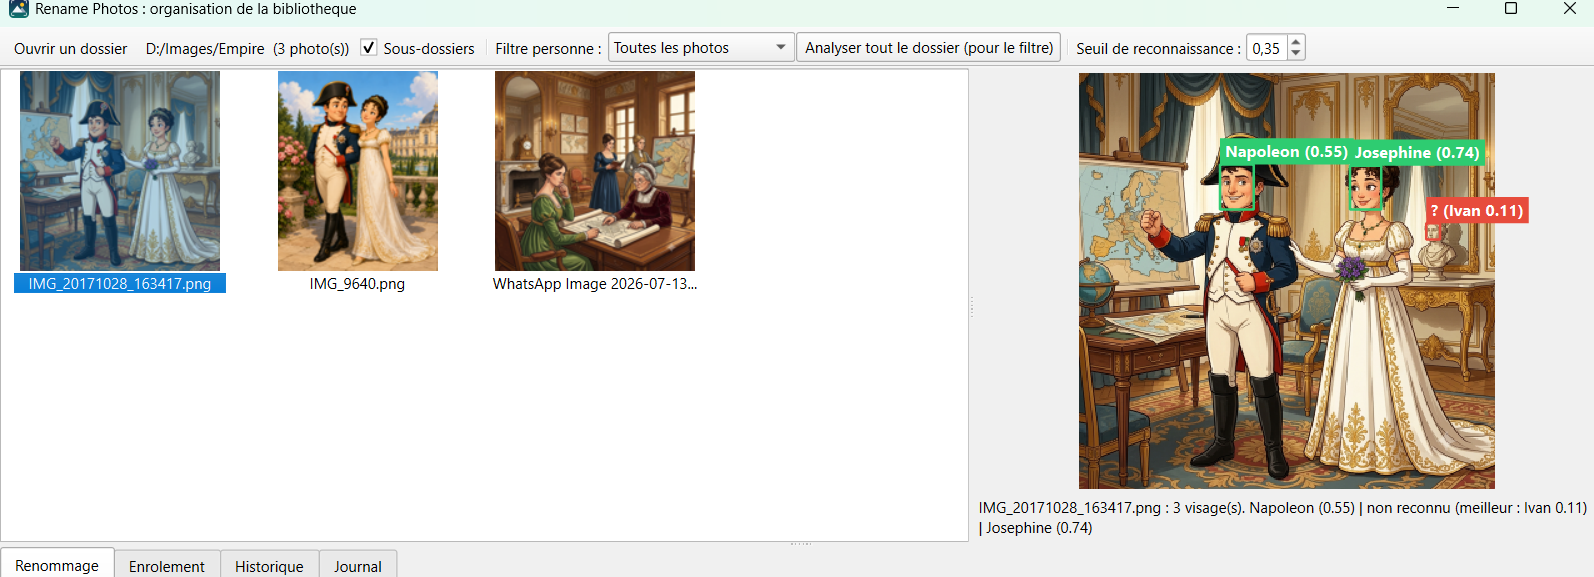
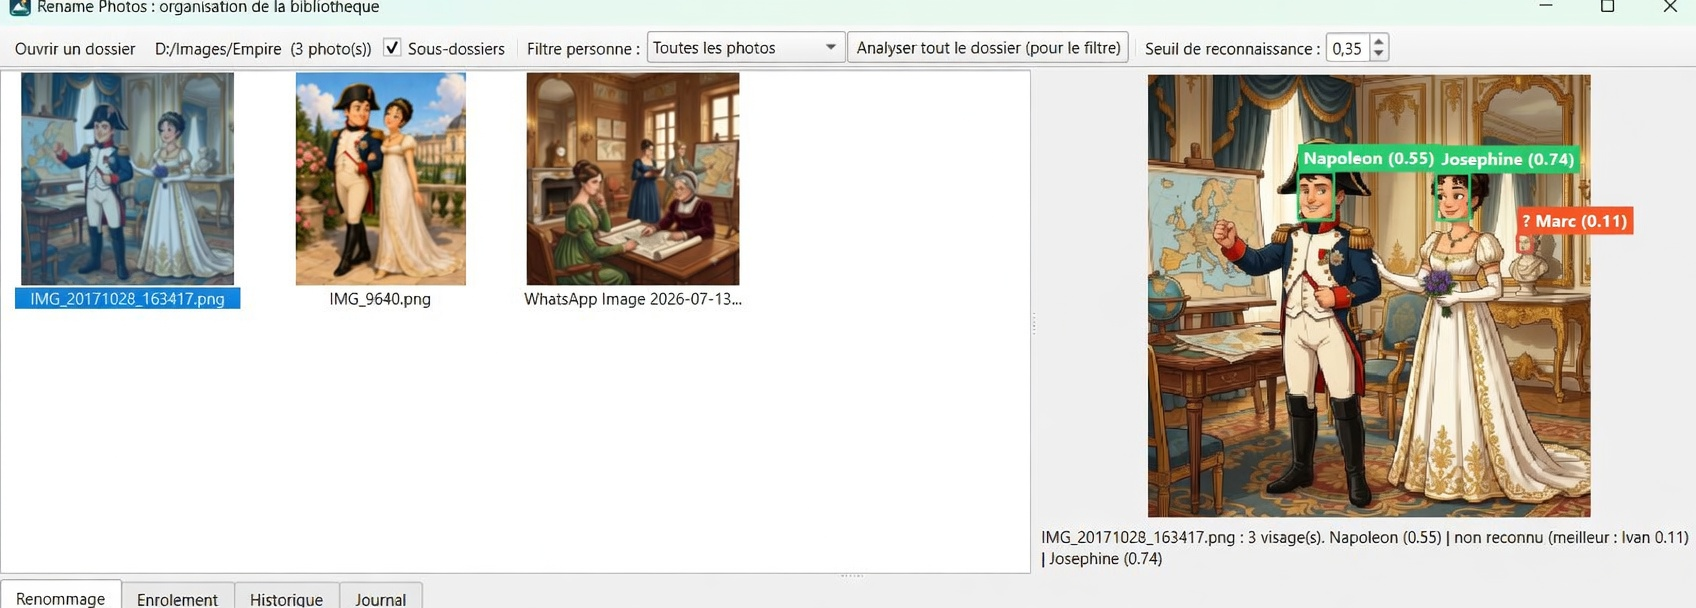
Move screenshots in READMEs

diff --git a/README.md b/README.md
@@ -1,19 +1,15 @@
 # Local AI Photo Renamer
 
-Rename your photo library intelligently, 100% locally: `IMG_1234.jpg` becomes `20230703_143551_alice_beach.jpg`, thanks to a local vision model ([Ollama](https://ollama.com)) that describes the scene and on-device face recognition (insightface) that identifies the people you have taught it. No photo ever leaves your computer.
+Rename your photo library intelligently, 100% locally: `IMG_1234.jpg` becomes `20171028_163417_josephine_napoleon_royal_chamber.jpg`, thanks to a local vision model ([Ollama](https://ollama.com)) that describes the scene and on-device face recognition (insightface) that identifies the people you have taught it. No photo ever leaves your computer.
 
-> **Note**: the GUI is currently French-only. Its labels (buttons, tabs) are quoted verbatim in this manual, with translations. Command-line scripts are included.
+> **Note**: the GUI is currently French-only. Its labels (buttons, tabs) are quoted verbatim in this manual, with translations. Command-line scripts are included. The screenshots illustrate an example with two enrolled people, Napoleon and Josephine.
 
 *Documentation française complète : [README.fr.md](README.fr.md).*
-
-![Renaming tab: thumbnail grid and editable rename proposals](docs/Renaming_panel.png)
-
-![Viewer: face recognition with per-face scores](docs/Face_recognition_panel.png)
 
 ## Features
 
 - **Smart renaming** to `YYYYMMDD_HHMMSS_description.ext`. Generic camera names (`IMG_1234`, `IMG-[phone redacted]-WA0072`, `PXL_...`, screenshots...) get an AI-generated description; explicit names are kept and just timestamped. Timestamps come from EXIF, then from a date embedded in the filename (WhatsApp/Android formats), then from the file's modification time.
-- **Face recognition** (optional): enroll a few reference photos per person; recognized names are injected into the new filenames (`alice_beach` instead of `child_beach`) and power a per-person photo filter.
+- **Face recognition** (optional): enroll a few reference photos per person; recognized names are injected into the new filenames (`josephine_napoleon_garden` instead of `couple_garden`) and power a per-person photo filter.
 - **Preview before renaming**: every proposal is shown in an editable table; nothing is renamed without your confirmation, and every batch can be undone from the History tab.
 - **Fully local and private**: Ollama for scene description, insightface for faces, JSON files on disk. Reference photos, face embeddings, caches and history stay on your machine (and are git-ignored).
 - Thumbnail grid with lazy loading, face viewer with adjustable recognition threshold, per-person filter, subfolder mode, live activity log. CLI scripts (`rename_photos.py`, `enroll_faces.py`) cover renaming and enrollment without the GUI.
@@ -78,11 +74,13 @@ The "Sous-dossiers" checkbox recursively includes photos from subfolders (rename
 
 Click a thumbnail: the photo is displayed on the right, and face detection starts automatically (the first use loads the model, allow a few seconds; progress is shown in the log).
 
+![Viewer: face recognition with per-face scores](docs/Face_recognition_panel.png)
+
 Each detected face gets a box:
 
-Green box: recognized face. The label shows the name and similarity score, e.g. "Alice (0.52)".
+Green box: recognized face. The label shows the name and similarity score, e.g. "Josephine (0.74)".
 
-Red box: face not recognized at the current threshold. The label shows the best candidate and its score, e.g. "? (Bob 0.28)". Useful for spotting false negatives.
+Red box: face not recognized at the current threshold. The label shows the best candidate and its score, e.g. "? (Marc 0.11)" on the statue in the background of the screenshot. Useful for spotting false negatives.
 
 The recognition threshold (toolbar, 0.35 by default) applies live: boxes switch from red to green without re-running detection. Lower it if known faces are missed, raise it if strangers get identified. Detections are cached (`face_cache.json`): revisiting an analyzed photo is instant, and changing the threshold or enrolling someone does not redo detection.
 
@@ -98,9 +96,11 @@ Not to be confused with "Analyser le dossier (apercu)" in the "Renommage" tab: t
 
 Principle: nothing is ever renamed without your confirmation. The flow is Analyze, then review and adjust, then Apply.
 
+![Renaming tab: thumbnail grid and editable rename proposals](docs/Renaming_panel.png)
+
 Produced name format: `YYYYMMDD_HHMMSS_description.ext`. The timestamp comes from EXIF, else from a date embedded in the filename (WhatsApp, Android formats...), and as a last resort from the file's modification time. The description depends on the original name:
 
-Generic name (IMG_1234, IMG-20230703-WA0072, screenshots...): description generated by the vision model. If face recognition is checked and recognizes someone, their name replaces the generic terms and the model only describes the scene (e.g. `alice_beach` rather than `child_beach`).
+Generic name (IMG_1234, IMG-20230703-WA0072, screenshots...): description generated by the vision model. If face recognition is checked and recognizes someone, their name replaces the generic terms and the model only describes the scene (e.g. `josephine_napoleon_garden` rather than `couple_garden`, as in the screenshot above).
 
 Already explicit name: timestamp only, no model call.
 
@@ -149,8 +149,8 @@ local-ai-photo-renamer/
 │
 │   Created automatically at runtime (git-ignored):
 ├── Reference/
-│   ├── Alice/                 # reference photos for Alice
-│   └── Bob/
+│   ├── Josephine/             # reference photos for Josephine
+│   └── Napoleon/
 ├── faces_db.json              # enrolled face embeddings
 ├── face_cache.json            # detection cache
 └── rename_history.json        # rename batch history

diff --git a/README.fr.md b/README.fr.md
@@ -1,14 +1,10 @@
 # Local AI Photo Renamer : manuel d'utilisation
 
-Application de renommage intelligent de photos : vos fichiers `IMG_1234.jpg` deviennent `20230703_143551_alice_plage.jpg`, grâce à un modèle vision local (Ollama) qui décrit la scène et à une reconnaissance faciale locale (insightface) qui identifie les personnes que vous lui avez apprises. Tout fonctionne sur votre machine, aucune photo ne quitte l'ordinateur.
+Application de renommage intelligent de photos : vos fichiers `IMG_1234.jpg` deviennent `20171028_163417_josephine_napoleon_chambre_royale.jpg`, grâce à un modèle vision local (Ollama) qui décrit la scène et à une reconnaissance faciale locale (insightface) qui identifie les personnes que vous lui avez apprises. Tout fonctionne sur votre machine, aucune photo ne quitte l'ordinateur.
 
 *For the English documentation, see [README.md](README.md).*
 
-Remarque : les libellés de l'interface (boutons, onglets) sont écrits sans accents ; ils sont cités tels quels dans ce manuel.
-
-![Onglet Renommage : grille de vignettes et propositions éditables](docs/Renaming_panel.png)
-
-![Visionneuse : reconnaissance faciale avec score par visage](docs/Face_recognition_panel.png)
+Remarque : les libellés de l'interface (boutons, onglets) sont écrits sans accents ; ils sont cités tels quels dans ce manuel. Les captures d'écran illustrent un exemple avec deux personnes enrôlées, Napoleon et Josephine.
 
 ## 1. Prérequis
 
@@ -70,11 +66,13 @@ La case "Sous-dossiers" inclut récursivement les photos des sous-dossiers (les 
 
 Cliquez sur une vignette : la photo s'affiche en grand à droite, et la détection de visages se lance automatiquement (le premier usage charge le modèle, comptez quelques secondes ; c'est indiqué dans le Journal).
 
+![Visionneuse : reconnaissance faciale avec score par visage](docs/Face_recognition_panel.png)
+
 Chaque visage détecté est encadré :
 
-Cadre vert : visage reconnu. L'étiquette indique le nom et le score de similarité, par exemple "Alice (0.52)".
+Cadre vert : visage reconnu. L'étiquette indique le nom et le score de similarité, par exemple "Josephine (0.74)".
 
-Cadre rouge : visage non reconnu au seuil actuel. L'étiquette indique le meilleur candidat et son score, par exemple "? (Bob 0.28)". Utile pour repérer les faux négatifs.
+Cadre rouge : visage non reconnu au seuil actuel. L'étiquette indique le meilleur candidat et son score, par exemple "? (Marc 0.11)" sur la statue en arrière-plan de la capture. Utile pour repérer les faux négatifs.
 
 Le seuil de reconnaissance (barre d'outils, 0.35 par défaut) se règle en direct : les cadres passent du rouge au vert sans relancer la détection. Baissez-le si des visages connus ne sont pas reconnus, montez-le si des inconnus sont identifiés à tort. Les détections sont mises en cache (`face_cache.json`) : revenir sur une photo déjà analysée est instantané, et changer le seuil ou enrôler quelqu'un ne refait pas la détection.
 
@@ -90,9 +88,11 @@ Les photos jamais analysées ne peuvent pas être filtrées : la barre d'état v
 
 Principe : rien n'est jamais renommé sans votre validation. Le flux est Analyser, puis relire et ajuster, puis Appliquer.
 
+![Onglet Renommage : grille de vignettes et propositions éditables](docs/Renaming_panel.png)
+
 Format des noms produits : `AAAAMMJJ_HHMMSS_description.ext`. L'horodatage vient de l'EXIF, à défaut d'une date présente dans le nom de fichier (formats WhatsApp, Android...), et en dernier recours de la date de modification. La description dépend du nom d'origine :
 
-Nom générique (IMG_1234, IMG-20230703-WA0072, Capture d'écran...) : description générée par le modèle vision. Si la reconnaissance faciale est cochée et reconnaît quelqu'un, son nom remplace les termes génériques et le modèle ne décrit que la scène (ex : `alice_plage` plutôt que `enfant_plage`).
+Nom générique (IMG_1234, IMG-20230703-WA0072, Capture d'écran...) : description générée par le modèle vision. Si la reconnaissance faciale est cochée et reconnaît quelqu'un, son nom remplace les termes génériques et le modèle ne décrit que la scène (ex : `josephine_napoleon_jardin_chateau` plutôt que `couple_jardin_chateau`, comme sur la capture ci-dessus).
 
 Nom déjà explicite : simple horodatage, sans appel au modèle.
 
@@ -141,8 +141,8 @@ local-ai-photo-renamer/
 │
 │   Créés automatiquement à l'usage (exclus du dépôt par le .gitignore) :
 ├── Reference/
-│   ├── Alice/                 # photos de référence d'Alice
-│   └── Bob/
+│   ├── Josephine/             # photos de référence de Josephine
+│   └── Napoleon/
 ├── faces_db.json              # empreintes des visages enrôlés
 ├── face_cache.json            # cache des détections
 └── rename_history.json        # historique des lots de renommage